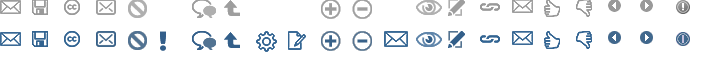
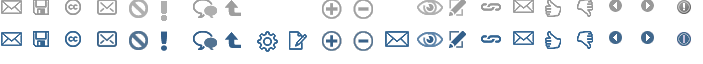
Allow comments with no replies to be deleted directly
Fixes tog22/eaforum#77.

This allows comments with no replies to be deleted without first being
retracted.

I changed the delete icon to a gray that matched the other icons.

diff --git a/r2/r2/public/static/main.css b/r2/r2/public/static/main.css
@@ -2224,7 +2224,7 @@ div.comment-links ul li.unban a.mod,
 div.comment-links ul li.delete a {
   width: 19px;
   height: 20px;
-  background-position: -160px -32px;
+  background-position: -155px 0;
 }
 
 .commentreply .buttons button,

diff --git a/r2/r2/models/link.py b/r2/r2/models/link.py
@@ -1048,7 +1048,7 @@ class Comment(Thing, Printable):
         if not self._loaded:
             self._load()
         can_moderate = c.user_is_loggedin and (self.author_id == c.user._id or self.subreddit_slow.is_moderator(c.user) or c.user_is_admin)
-        return (can_moderate and self.retracted and not self.has_children())
+        return can_moderate and not self.has_children()
 
 
     # Changes the body of this comment, parsing the new body for polls and
